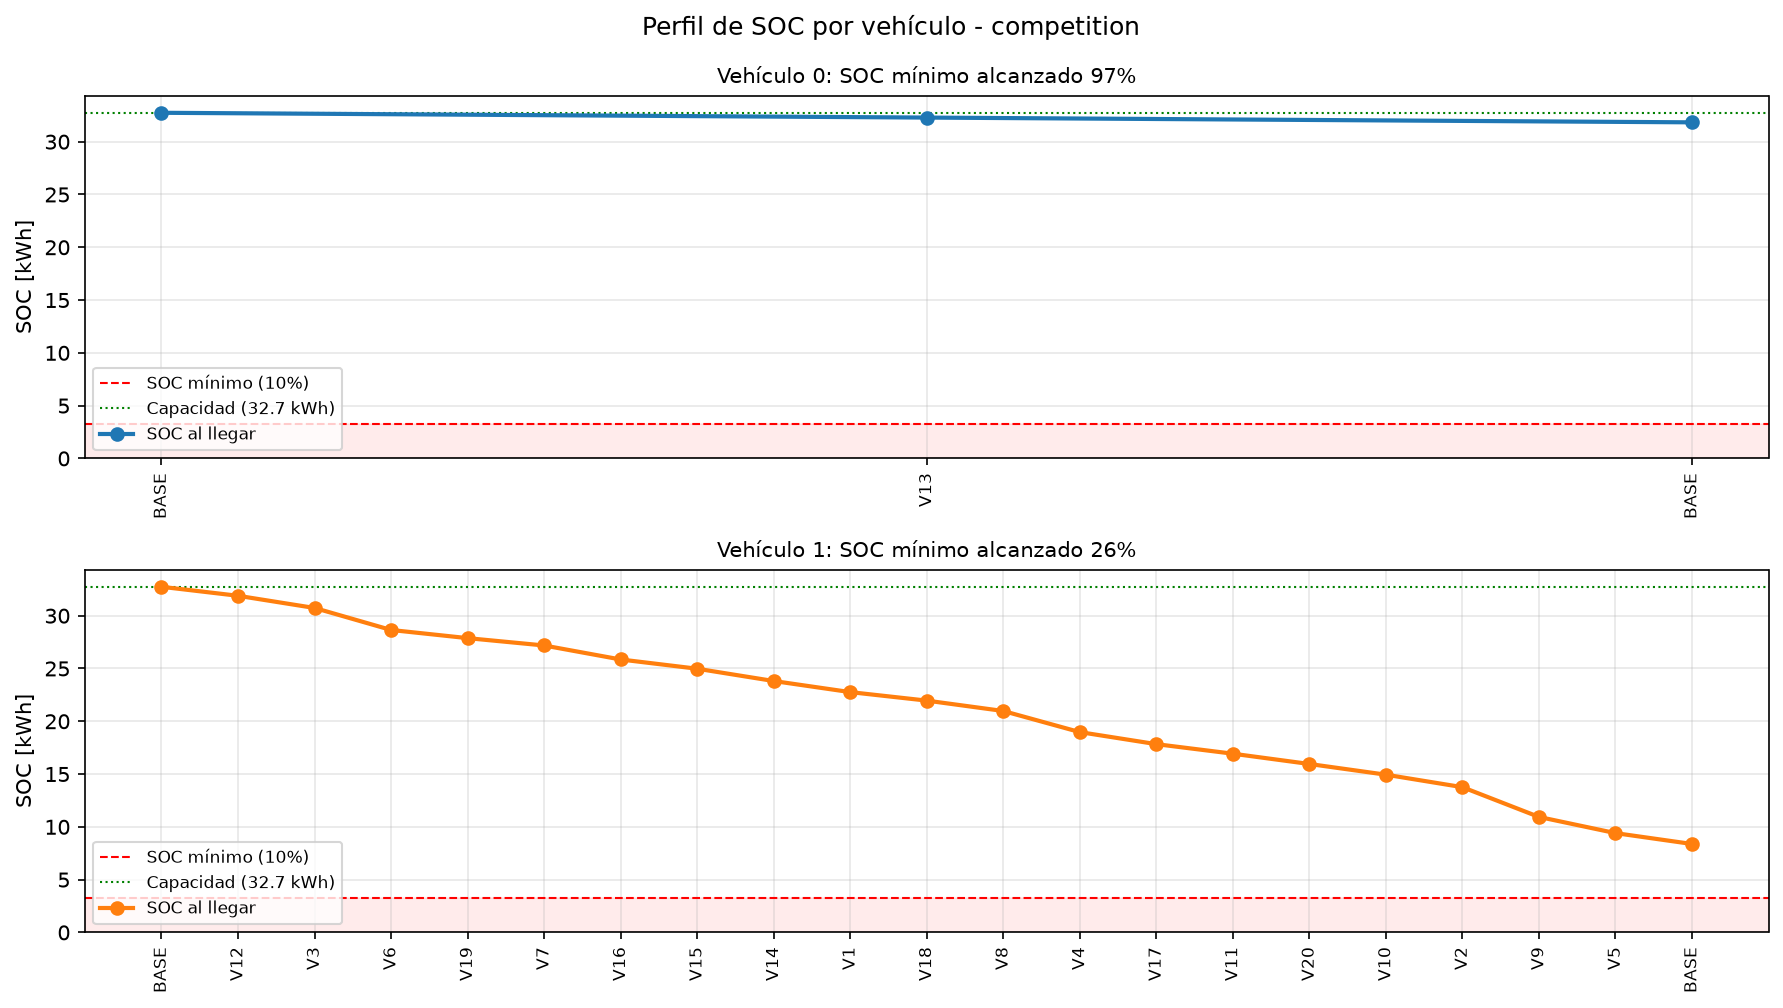
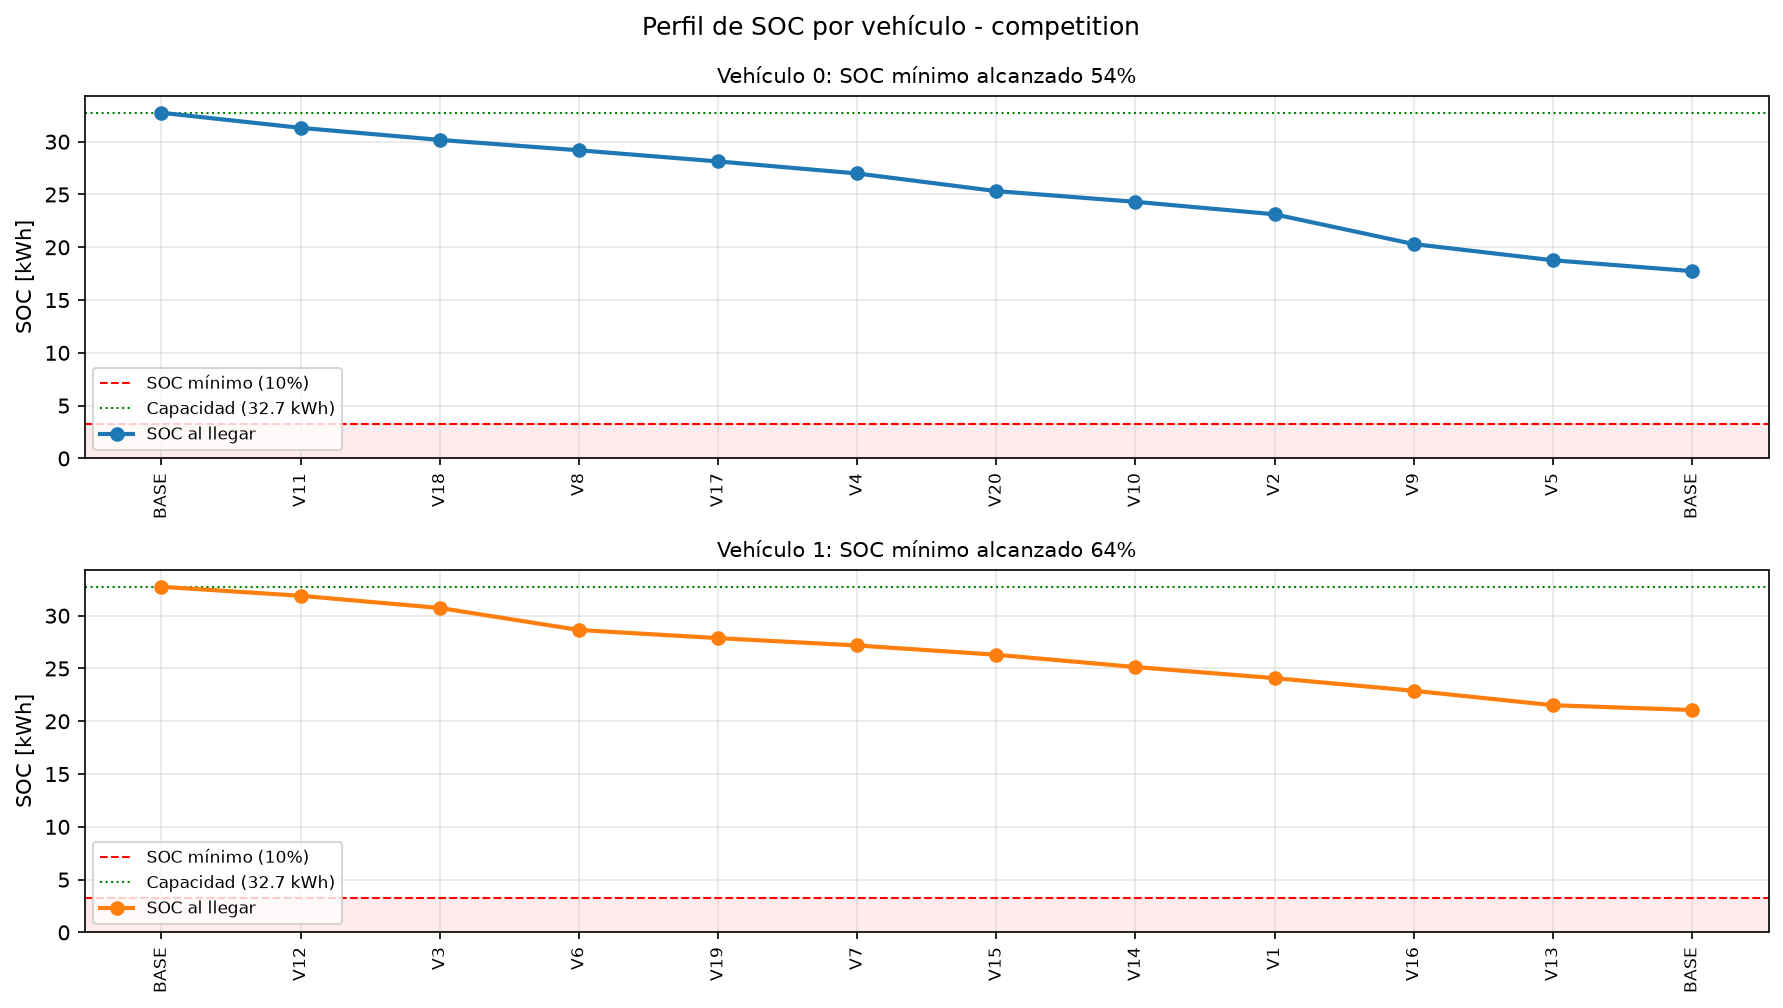
Equilibrio de carga de la flota por makespan
- Dimension de tiempo de conduccion (distancia / avg_speed_kmh) en OR-Tools
- SetGlobalSpanCostCoefficient penaliza el makespan (tiempo del vehiculo que mas tarda)
- makespan_weight (CLI --makespan-weight, por defecto 0.5) gradua el equilibrio
- Metricas: makespan_drive_hours, tiempos por vehiculo, drive_time_hours en CSV/JSON
- Reparto equilibrado: evaluation 9/11, competition 10/10 (vs 1/19 sin equilibrio)
- Fondo del notebook 03 = calles locales (sin mosaicos externos)
- +1 test (test_makespan_balances_fleet); 44 tests pasan
- Salidas regeneradas con flota 2 por calles y equilibrio

diff --git a/src/evrp_model.py b/src/evrp_model.py
@@ -13,9 +13,19 @@ Flota
 * ``fleet_size`` vehículos **homogéneos** (misma batería, consumo y conector).
 * Todas las rutas parten y terminan en la base.
 * Objetivo global: minimizar la **energía de conducción total** (suma de todas
-  las rutas).
+  las rutas), más (opcional) un término de **makespan** que equilibra la carga.
 * Si ``require_all_vehicles_used`` es True, cada vehículo debe hacer al menos
   una visita (no se permiten rutas vacías base->base).
+
+Equilibrio de carga (makespan)
+------------------------------
+Con el objetivo de solo energía, el reparto óptimo es desigual (un vehículo hace
+casi todas las visitas, porque repartir añade viajes de ida/vuelta a la base).
+Para equilibrar se añade una dimensión de **tiempo de conducción** (distancia /
+``avg_speed_kmh``) y se penaliza su *span* global con
+``SetGlobalSpanCostCoefficient``: eso minimiza el tiempo del vehículo que más
+tarda (el makespan), empujando a que ningún vehículo quede sobrecargado. El peso
+``makespan_weight`` gradúa el equilibrio (0 = solo energía).
 
 Modelado de la batería (dimensión de SOC restante, por vehículo)
 ----------------------------------------------------------------
@@ -68,6 +78,7 @@ class VehicleRoute:
     chargers_used: list[str]       # cargadores visitados por este vehículo
     soc_at_nodes_kwh: list[float]  # SOC al llegar a cada nodo de la ruta
     n_visits: int                  # nº de visitas atendidas por este vehículo
+    drive_time_hours: float = 0.0  # tiempo de conducción (sin recargas)
 
 
 @dataclass
@@ -78,6 +89,8 @@ class FleetResult:
     total_drive_energy_kwh: float = float("inf")
     feasible: bool = False
     status: str = "NO_SOLUTION"
+    # Makespan de conducción: tiempo del vehículo que más tarda conduciendo (h).
+    makespan_drive_hours: float = 0.0
 
     @property
     def all_chargers_used(self) -> list[str]:
@@ -165,6 +178,10 @@ def solve_evrp(
     sub_energy = full_energy[np.ix_(global_idx, global_idx)]
     sub_energy_scaled = energy_matrix_scaled(sub_energy, scale)
 
+    # Submatriz de distancias (km) para derivar tiempos de conducción.
+    full_dist_arr = np.asarray(full_dist, dtype=float)
+    sub_dist_km = full_dist_arr[np.ix_(global_idx, global_idx)]
+
     # Enteros escalados de SOC.
     capacity_scaled = int(round(veh.initial_soc_kwh * scale))
     min_soc_scaled = int(round(veh.min_soc_kwh * scale))
@@ -250,6 +267,48 @@ def solve_evrp(
             end_index = routing.End(v)
             visit_dim.CumulVar(end_index).SetMin(1)
 
+    # --- Dimensión de tiempo de conducción + makespan -----------------------
+    # El tiempo de un arco = distancia / velocidad media. Se modela una
+    # dimensión "time" (en segundos enteros). El makespan (tiempo del vehículo
+    # que más tarda) se penaliza con SetGlobalSpanCostCoefficient sobre esa
+    # dimensión: eso empuja a equilibrar la carga entre vehículos.
+    #
+    # El coeficiente convierte "segundos de span" a las unidades del objetivo
+    # (energía escalada). A makespan_weight = 1, un segundo de span pesa como la
+    # energía de conducir un segundo a la velocidad media; así el peso es una
+    # perilla relativa adimensional e independiente del factor de escala.
+    avg_speed_kmh = max(1e-6, float(cfg.solver.avg_speed_kmh))
+    makespan_weight = float(cfg.solver.makespan_weight)
+
+    def time_transit_cb(from_index: int, to_index: int) -> int:
+        i = manager.IndexToNode(from_index)
+        j = manager.IndexToNode(to_index)
+        km = float(sub_dist_km[i][j])
+        seconds = km / avg_speed_kmh * 3600.0
+        return int(round(seconds))
+
+    time_cb_idx = routing.RegisterTransitCallback(time_transit_cb)
+    # Horizonte amplio: suma de todos los arcos de la red como cota superior.
+    max_seconds = int(round(float(sub_dist_km.sum()) / avg_speed_kmh * 3600.0)) + 1
+    routing.AddDimension(
+        time_cb_idx,
+        0,            # sin espera/slack en los nodos
+        max_seconds,  # cota superior del tiempo acumulado por vehículo
+        True,         # tiempo inicial = 0 en la base
+        "time",
+    )
+    time_dim = routing.GetDimensionOrDie("time")
+
+    if makespan_weight > 0 and fleet_size > 1:
+        # Energía (escalada) por segundo de conducción a la velocidad media:
+        #   kWh/km * (km/s) = kWh/s ; * scale = micro-kWh/s.
+        kwh_per_km = max(1e-9, model.kwh_per_km)
+        km_per_s = avg_speed_kmh / 3600.0
+        energy_per_second_scaled = kwh_per_km * km_per_s * scale
+        coef = int(round(makespan_weight * energy_per_second_scaled))
+        coef = max(1, coef)
+        time_dim.SetGlobalSpanCostCoefficient(coef)
+
     # --- Búsqueda -----------------------------------------------------------
     search = pywrapcp.DefaultRoutingSearchParameters()
     search.first_solution_strategy = _enum_first_solution(
@@ -269,6 +328,7 @@ def solve_evrp(
     # --- Extraer una ruta por vehículo --------------------------------------
     routes: list[VehicleRoute] = []
     total_energy_scaled = 0
+    makespan_seconds = 0
     for v in range(fleet_size):
         route_nodes: list[int] = []
         soc_values: list[float] = []
@@ -292,6 +352,10 @@ def solve_evrp(
         n_visits = sum(1 for k in route_nodes if k in visit_idxs)
         total_energy_scaled += route_energy_scaled
 
+        # Tiempo de conducción de la ruta = cumul final de la dimensión "time".
+        route_seconds = solution.Value(time_dim.CumulVar(routing.End(v)))
+        makespan_seconds = max(makespan_seconds, route_seconds)
+
         routes.append(
             VehicleRoute(
                 vehicle_id=v,
@@ -301,6 +365,7 @@ def solve_evrp(
                 chargers_used=chargers_used,
                 soc_at_nodes_kwh=soc_values,
                 n_visits=n_visits,
+                drive_time_hours=route_seconds / 3600.0,
             )
         )
 
@@ -321,4 +386,5 @@ def solve_evrp(
         total_drive_energy_kwh=total_energy_scaled / scale,
         feasible=all_covered,
         status=status,
+        makespan_drive_hours=makespan_seconds / 3600.0,
     )

diff --git a/src/solve.py b/src/solve.py
@@ -178,12 +178,14 @@ def solve_instance(
                 "n_visits": r.n_visits,
                 "drive_energy_kwh": r.drive_energy_kwh,
                 "drive_km": round(_route_km(r.node_indices, dist), 4),
+                "drive_time_hours": round(r.drive_time_hours, 4),
             }
         )
 
     fleet = aggregate_fleet_metrics(instance, per_vehicle_metrics, per_vehicle_n_visits, cfg)
     for pv, rv in zip(fleet.per_vehicle, routes_out):
         pv["drive_km"] = rv["drive_km"]
+        pv["drive_time_hours"] = rv["drive_time_hours"]
 
     # Exportar CSV de rutas de la flota.
     route_csv = config.OUTPUTS_DIR / f"route_{instance}.csv"
@@ -194,6 +196,13 @@ def solve_instance(
     metrics["total_drive_km"] = round(
         sum(_route_km(r.node_indices, dist) for r in result.routes), 4
     )
+    metrics["makespan_weight"] = cfg.solver.makespan_weight
+    metrics["avg_speed_kmh"] = cfg.solver.avg_speed_kmh
+    # Makespan de conducción: tiempo del vehículo que más tarda (h) y balance.
+    metrics["makespan_drive_hours"] = round(result.makespan_drive_hours, 4)
+    drive_times = [r.drive_time_hours for r in result.routes]
+    metrics["total_drive_time_hours"] = round(sum(drive_times), 4)
+    metrics["min_drive_time_hours"] = round(min(drive_times), 4) if drive_times else 0.0
     metrics["routes"] = routes_out
     _write_metrics(config.OUTPUTS_DIR / f"metrics_{instance}.json", metrics)
 
@@ -223,13 +232,18 @@ def _print_summary(metrics: dict) -> None:
     print(f"  Energía repuesta:        {metrics['total_recharge_energy_kwh']:.2f} kWh")
     print(f"  Tiempo de recarga:       {metrics['total_recharge_time_hours'] * 60:.1f} min")
     print(f"  Capacidad batería:       {metrics['battery_capacity_kwh']:.1f} kWh")
+    if metrics.get("fleet_size", 1) > 1:
+        print(f"  Equilibrio (makespan_weight={metrics.get('makespan_weight', 0)}):")
+        print(f"    Makespan conducción:   {metrics.get('makespan_drive_hours', 0) * 60:.1f} min "
+              f"(el que más tarda; min {metrics.get('min_drive_time_hours', 0) * 60:.1f} min)")
     print("  Por vehículo:")
     for rv in metrics.get("routes", []):
         chg = f", cargadores: {rv['chargers_used']}" if rv["chargers_used"] else ""
         km = f", {rv['drive_km']:.2f} km" if rv.get("drive_km") is not None else ""
+        t = f", {rv['drive_time_hours'] * 60:.0f} min" if rv.get("drive_time_hours") is not None else ""
         print(
             f"    - V{rv['vehicle']}: {rv['n_visits']} visitas, "
-            f"{rv['drive_energy_kwh']:.2f} kWh{km}{chg}"
+            f"{rv['drive_energy_kwh']:.2f} kWh{km}{t}{chg}"
         )
     print("=" * 60)
 
@@ -244,6 +258,11 @@ def _main() -> None:
     )
     parser.add_argument("--time-limit", type=int, default=None, help="Límite de tiempo (s).")
     parser.add_argument("--vehicles", type=int, default=None, help="Número de vehículos de la flota.")
+    parser.add_argument(
+        "--makespan-weight", type=float, default=None,
+        help="Peso del equilibrio de carga (makespan). 0 = solo energía; "
+             ">0 equilibra el tiempo del vehículo que más tarda. Típico 0.5-5.",
+    )
     parser.add_argument("--battery", type=float, default=None, help="Capacidad batería (kWh).")
     parser.add_argument("--min-soc", type=float, default=None, help="SOC mínimo (fracción 0-1).")
     parser.add_argument("--no-recharge", action="store_true", help="Resolver sin cargadores.")
@@ -263,6 +282,8 @@ def _main() -> None:
         cfg.solver.time_limit_s = args.time_limit
     if args.vehicles is not None:
         cfg.solver.fleet_size = args.vehicles
+    if args.makespan_weight is not None:
+        cfg.solver.makespan_weight = args.makespan_weight
     user_set_battery = args.battery is not None
     if user_set_battery:
         cfg.vehicle.battery_capacity_kwh = args.battery

diff --git a/tests/test_evrp_model.py b/tests/test_evrp_model.py
@@ -114,6 +114,7 @@ def test_fleet_three_vehicles_all_used():
     inst = data_loading.load_instance("evaluation")
     model = _model(cap_kwh=60.0)
     cfg = _fast_cfg(cap_kwh=60.0, fleet=3)
+    cfg.solver.makespan_weight = 0.0  # sin equilibrio: solo comprobar cobertura
     cfg.solver.time_limit_s = 15
     res = evrp_model.solve_evrp(inst, model, cfg, use_rechargers=True)
     assert res.feasible, f"status={res.status}"
@@ -121,6 +122,38 @@ def test_fleet_three_vehicles_all_used():
     assert all(r.n_visits >= 1 for r in res.routes)
     visited = _all_visited(res, inst)
     assert len(visited) == 20
+
+
+# --- Equilibrio de carga por makespan --------------------------------------
+
+def test_makespan_balances_fleet():
+    """Con makespan_weight > 0 el reparto de visitas y el tiempo de conducción
+    quedan mucho más equilibrados que con peso 0 (que concentra en un vehículo),
+    sin perder cobertura ni factibilidad del SOC."""
+    inst = data_loading.load_instance("evaluation")
+    model = _model(cap_kwh=60.0)
+
+    cfg0 = _fast_cfg(cap_kwh=60.0, fleet=2)
+    cfg0.solver.makespan_weight = 0.0
+    cfg0.solver.time_limit_s = 15
+    res0 = evrp_model.solve_evrp(inst, model, cfg0, use_rechargers=True)
+
+    cfgb = _fast_cfg(cap_kwh=60.0, fleet=2)
+    cfgb.solver.makespan_weight = 1.0
+    cfgb.solver.time_limit_s = 15
+    resb = evrp_model.solve_evrp(inst, model, cfgb, use_rechargers=True)
+
+    assert res0.feasible and resb.feasible
+    # Diferencia de visitas entre los dos vehículos.
+    gap0 = abs(res0.routes[0].n_visits - res0.routes[1].n_visits)
+    gapb = abs(resb.routes[0].n_visits - resb.routes[1].n_visits)
+    # El equilibrio reduce la brecha de reparto.
+    assert gapb < gap0
+    # Y el makespan (tiempo del que más tarda) baja con el equilibrio.
+    assert resb.makespan_drive_hours < res0.makespan_drive_hours
+    # Cobertura y SOC se mantienen.
+    assert len(_all_visited(resb, inst)) == 20
+    assert _min_soc(resb) >= cfgb.vehicle.min_soc_kwh - 1e-6
 
 
 # --- Matriz de distancias explícita (fuente única de verdad) ---------------

diff --git a/src/config.py b/src/config.py
@@ -113,6 +113,21 @@ class SolverConfig:
     first_solution_strategy: str = "PATH_CHEAPEST_ARC"
     local_search_metaheuristic: str = "GUIDED_LOCAL_SEARCH"
     seed: int = 42
+    # --- Equilibrio de carga de la flota (makespan) ------------------------
+    # Peso del makespan: penaliza el TIEMPO DE CONDUCCIÓN del vehículo que más
+    # tarda (el "span" global de la dimensión de tiempo). Con makespan_weight=0
+    # el objetivo es solo energía total (un vehículo tiende a hacer casi todas
+    # las visitas). Al subirlo, el solver equilibra las rutas para que ningún
+    # vehículo quede sobrecargado, a costa de algo más de energía total. Es un
+    # peso relativo adimensional; valores típicos 0.0-5.0. Por defecto 0.5:
+    # equilibra bien la carga entre vehículos con un costo mínimo de energía
+    # extra (ver branch equilibrio-conductores). makespan_weight=0 recupera el
+    # objetivo de solo energía (reparto desigual).
+    makespan_weight: float = 0.5
+    # Velocidad media de conducción (km/h) para convertir distancia -> tiempo.
+    # Primera aproximación homogénea; se puede refinar con velocidades por tipo
+    # de calle derivadas de la telemetría eVED.
+    avg_speed_kmh: float = 40.0
 
 
 @dataclass

diff --git a/README.md b/README.md
@@ -10,9 +10,19 @@ de que el estado de carga (SOC) **nunca** baje de un mínimo de seguridad (nunca
 se queda sin batería).
 
 Soporta una **flota de N vehículos homogéneos**: todos parten de la base, se
-reparten las visitas (cada visita la atiende un solo vehículo) y el objetivo es
-minimizar la **energía total** de la flota. Por defecto cada vehículo debe
-atender al menos una visita.
+reparten las visitas (cada visita la atiende un solo vehículo). Por defecto cada
+vehículo debe atender al menos una visita.
+
+**Equilibrio de carga entre vehículos (makespan).** Minimizar solo la energía
+total lleva a un reparto muy desigual (un vehículo hace casi todas las visitas,
+porque repartir añade viajes de ida/vuelta a la base). Para equilibrar la carga
+se añade un término de **makespan**: se penaliza el tiempo de conducción del
+vehículo que más tarda, lo que empuja a repartir parejo. El peso
+`makespan_weight` (por defecto 0.5) gradúa el equilibrio: con 0 se recupera el
+objetivo de solo energía; valores 0.5–5 equilibran las rutas con un costo mínimo
+de energía extra. Ejemplo (evaluation, 2 vehículos): peso 0 reparte 1/19
+visitas (makespan 110 min); peso 0.5 reparte 9/11 (makespan 64 min) por solo
++1.2 kWh.
 
 ## Enfoque
 
@@ -116,6 +126,7 @@ Opciones principales:
 |-----------------|---------------------------------------------------------|
 | `--instance`    | `evaluation`, `competition` o `all`                     |
 | `--vehicles`    | Número de vehículos de la flota (por defecto 1)         |
+| `--makespan-weight` | Peso del equilibrio de carga; 0 = solo energía (por defecto 0.5) |
 | `--time-limit`  | Límite de cómputo de OR-Tools en segundos               |
 | `--battery`     | Capacidad de batería en kWh (sobreescribe la estimada)  |
 | `--min-soc`     | SOC mínimo como fracción (0–1), por defecto 0.10        |
